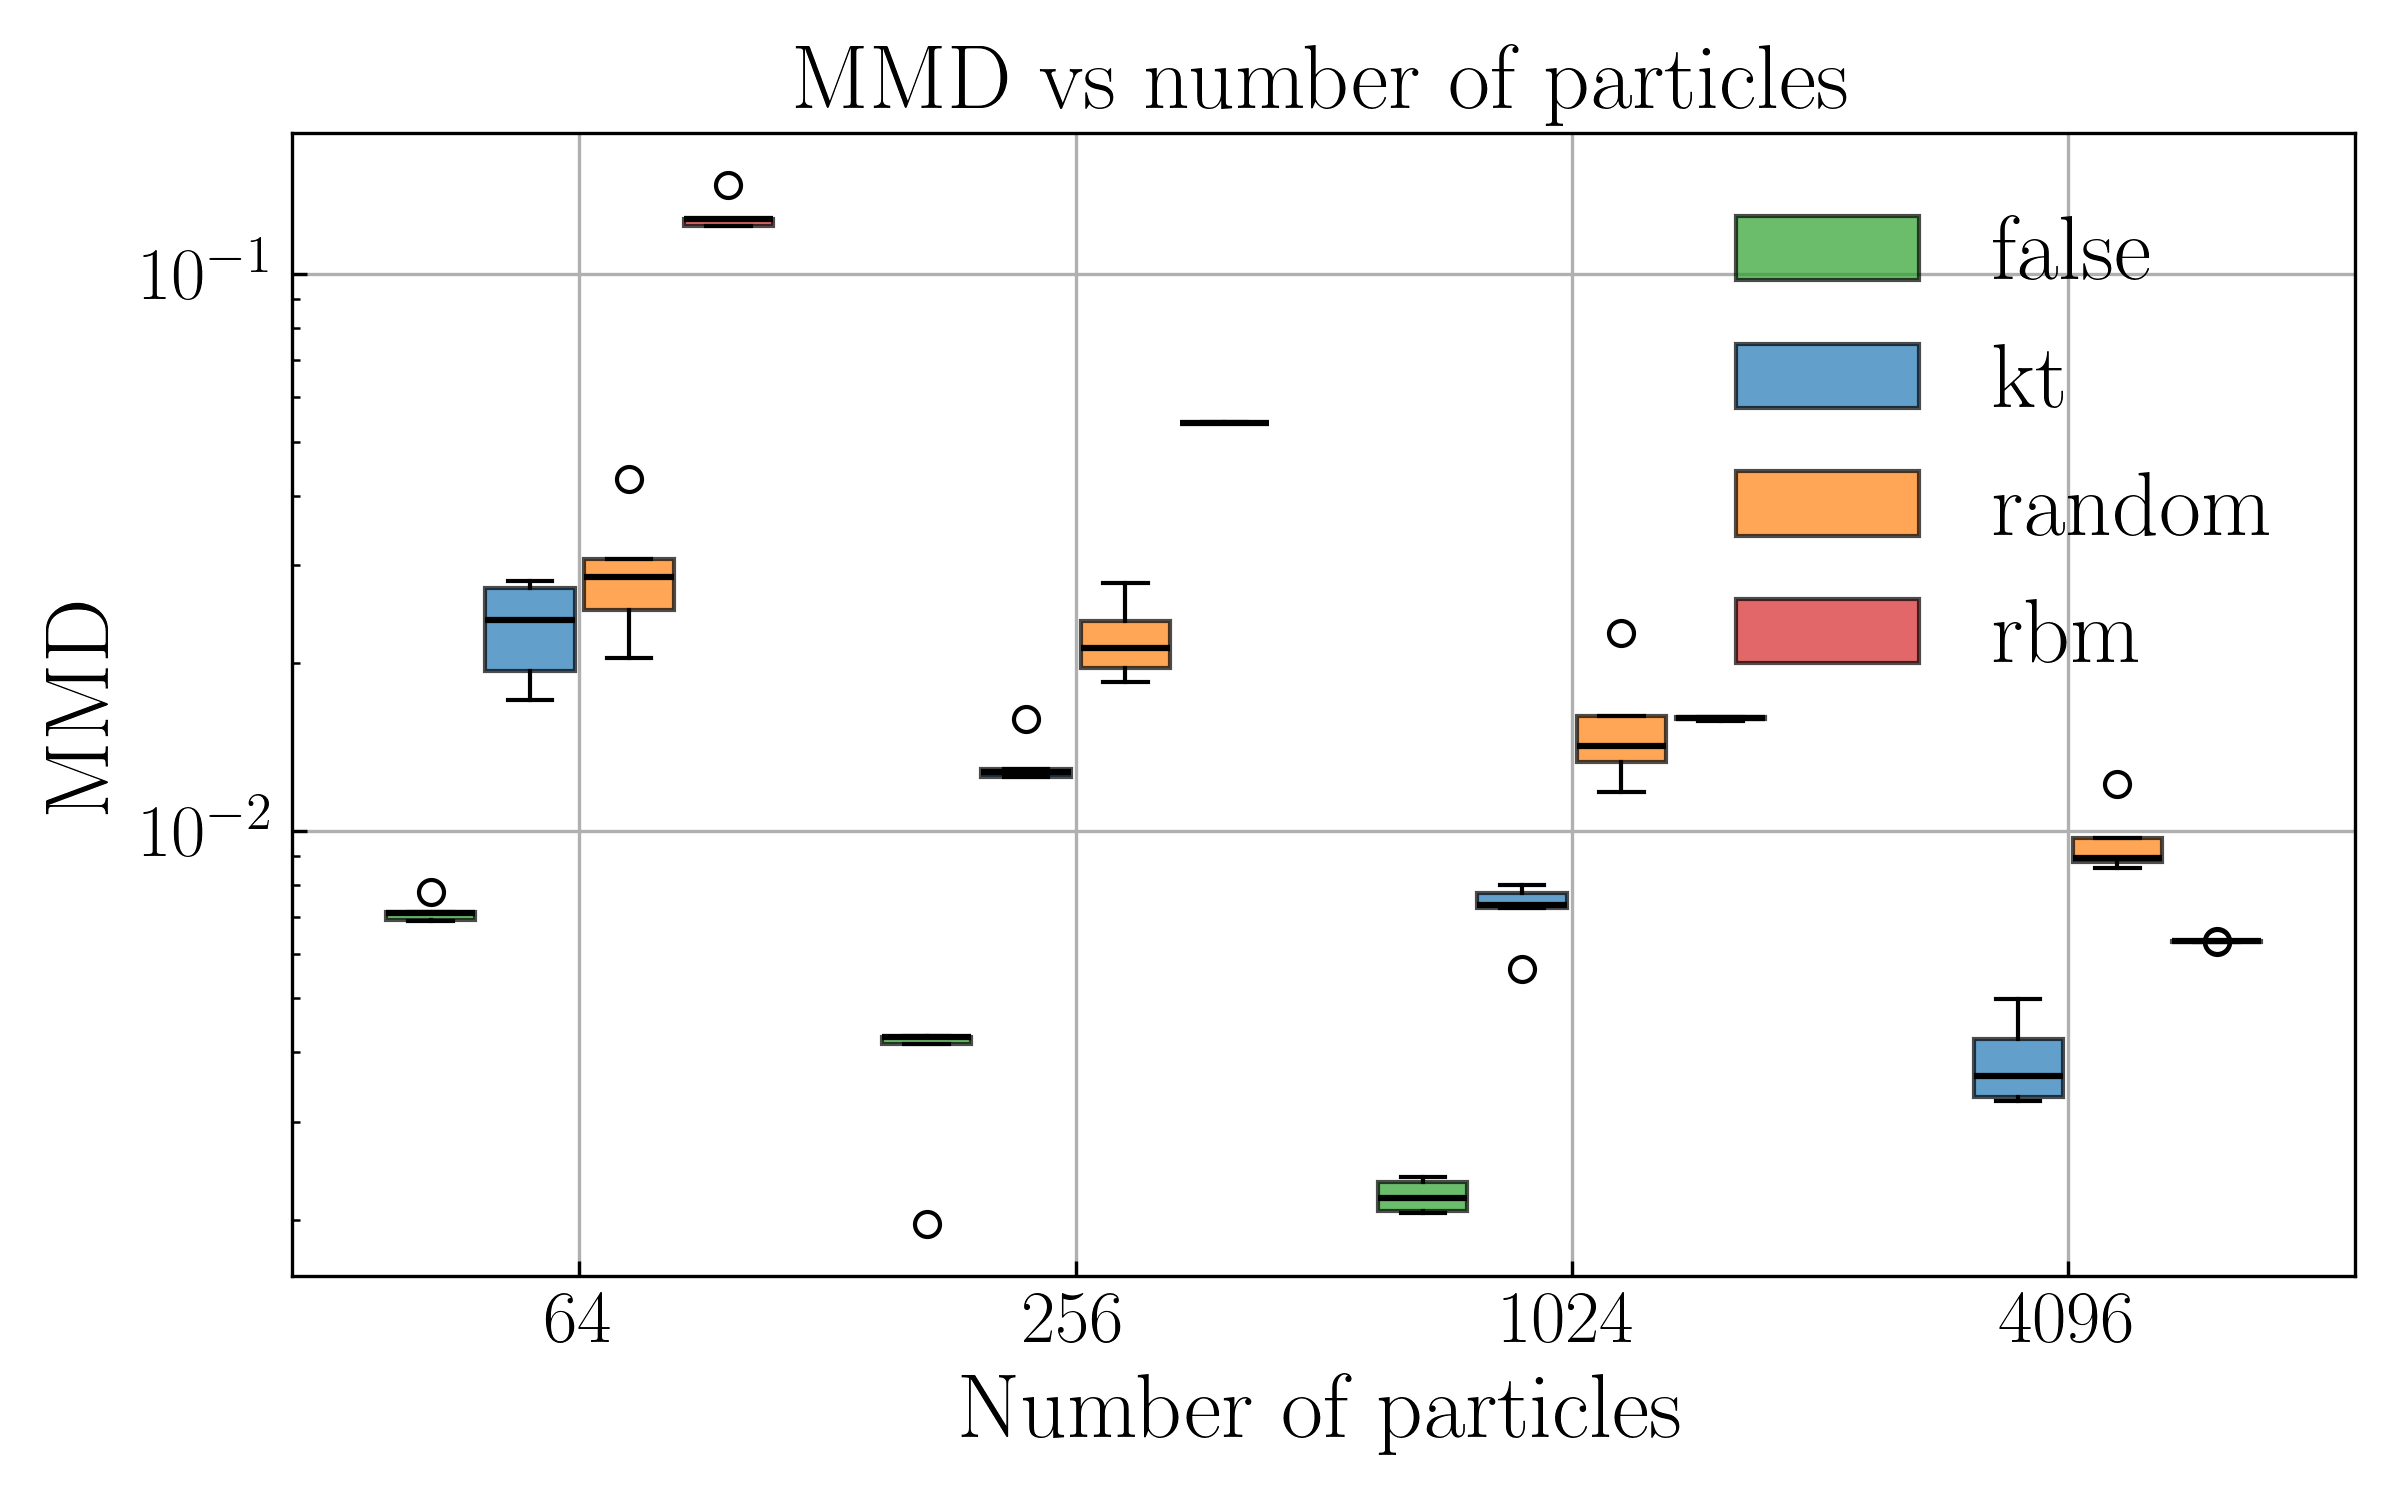
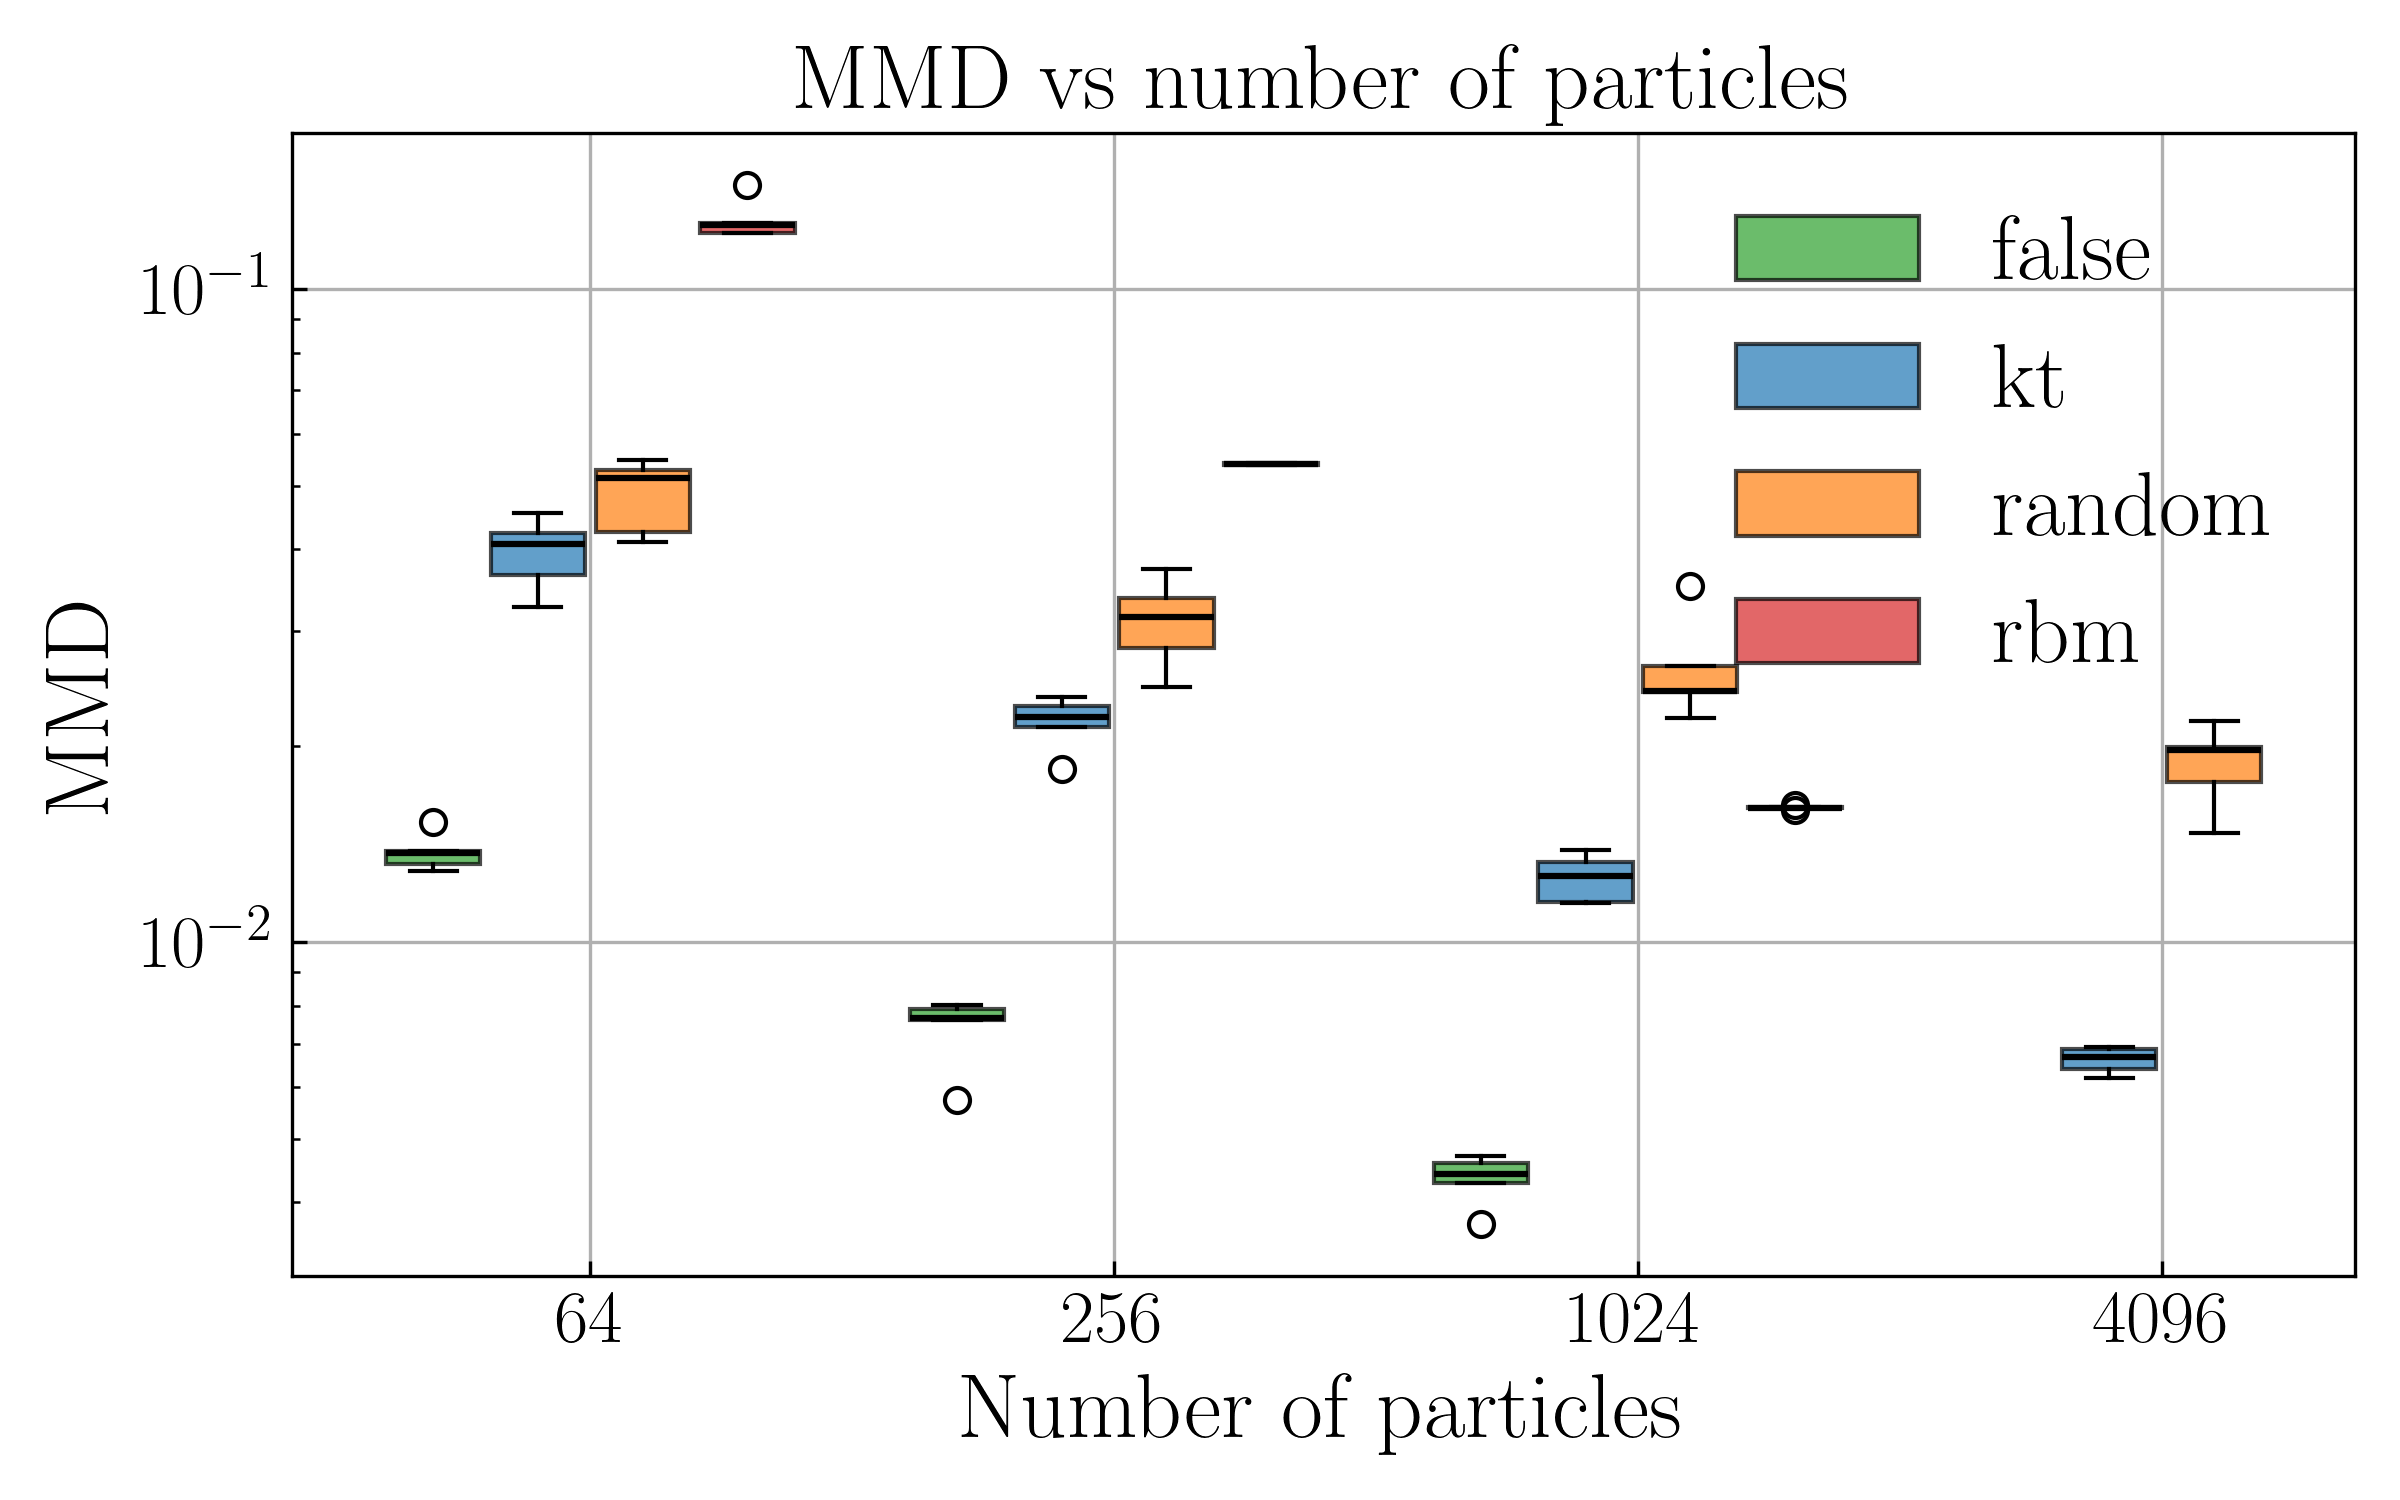
config

diff --git a/mfld.py b/mfld.py
@@ -12,8 +12,8 @@ from utils.kernel import compute_mmd2
 from jaxtyping import Array 
 # from utils.kt import kt_compresspp
 from tqdm import tqdm
-from goodpoints.jax.compress import kt_compresspp
 from goodpoints import compress
+from goodpoints.jax.compress import kt_compresspp
 from goodpoints.jax.sliceable_points import SliceablePoints
 
 
@@ -32,14 +32,19 @@ def initialize(key, d_in, d_hidden, d_out):
     return W1, b1, W2
 
 
-# def uncentered_matern_32_kernel(points_x, points_y, l):
-#     X, Y = points_x.get("X"), points_y.get("X")  # (N_x, d), (N_y, d)
-#     # diff = X[:, None, :] - Y[None, :, :]         # (N_x, N_y, d)
-#     diff = X - Y
-#     dists = jnp.linalg.norm(diff, axis=-1)       # (N_x, N_y)
-#     sqrt3_r = jnp.sqrt(3.0) * dists / l
-#     return (1.0 + sqrt3_r) * jnp.exp(-sqrt3_r)   # (N_x, N_y)
+def uncentered_matern_32_kernel(points_x, points_y, l):
+    X, Y = points_x.get("X"), points_y.get("X")  # (N_x, d), (N_y, d)
+    # diff = X[:, None, :] - Y[None, :, :]         # (N_x, N_y, d)
+    diff = X - Y
+    dists = jnp.linalg.norm(diff, axis=-1)       # (N_x, N_y)
+    sqrt3_r = jnp.sqrt(3.0) * dists / l
+    return (1.0 + sqrt3_r) * jnp.exp(-sqrt3_r)   # (N_x, N_y)
 
+@jax.jit
+def uncentered_gaussian_kernel(points_x, points_y, l):
+    x, y = points_x.get("p"), points_y.get("p")
+    k_xy = jnp.exp(-0.5 * jnp.sum((x - y) ** 2, axis=-1) / (l ** 2))
+    return k_xy
 
 class MFLDBase(ABC):
     def __init__(self, problem, thinning: str, save_freq: int, cfg: CFG, args):
@@ -64,16 +69,18 @@ class MFLDBase(ABC):
         if thinning == 'kt':
             # This is the jax version of kt_compresspp, which is very slow.
             #
-            # kernel_fn = partial(uncentered_matern_32_kernel, l=float(1.0))
-            # rng = np.random.default_rng(self.seed)
-            # def thin_fn(x, key):
-            #     points = SliceablePoints({"X": x})  
-            #     coresets = kt_compresspp(kernel_fn, points, w=jnp.ones(self.cfg.N) / self.cfg.N, 
-            #                  rng_gen=rng, inflate_size=int(self.cfg.N), g=0, delta=0.5)
+            # kernel_fn = partial(uncentered_gaussian_kernel, l=float(1.0))
+            
+            # def thin_fn(x, key):               
+            #     points = SliceablePoints({"p": x})  
+            #     rng = np.random.default_rng(int(key[0]))
+            #     coresets = kt_compresspp(kernel_fn, points, w=np.ones(x.shape[0]) / x.shape[0], 
+            #                  rng_gen=rng, inflate_size=x.shape[0], g=0)
             #     return x[coresets, :]
 
             # This is the cython version which is fast
             def thin_fn(x, rng_key):
+                rng_key, _ = jax.random.split(rng_key)
                 seed = jax.random.randint(rng_key, (), 0, 2**31 - 1).item()
                 x_cpu = np.array(np.asarray(x))
                 coresets = compress.compresspp_kt(x_cpu, kernel_type=self.kernel_type.encode("utf-8"), k_params=k_params, seed=seed, g=self.cfg.g)
@@ -331,7 +338,7 @@ class MFLD_mmd_flow(MFLDBase):
             v_batch = jax.vmap(vf_one_batch, in_axes=(0, 0))(x_batch, keys)  # (B, B, d)
             v = v_batch.reshape((N, d))
             x_next = x - self.cfg.step_size * v
-        return (x_next, key), x_next
+        return (x_next, key), thinned_x
     
     def simulate(self, x0: Optional[Array] = None) -> Array:
         key = random.PRNGKey(self.cfg.seed)
@@ -347,12 +354,11 @@ class MFLD_mmd_flow(MFLDBase):
         for t in tqdm(range(self.cfg.steps)):
             time_start = time.time()
             key_, subkey = random.split(key)
-            (x, key) , _ = self._step((x, subkey), t)
+            (x, key) , thinned_x = self._step((x, subkey), t)
             time_elapsed = time.time() - time_start
 
             ###########################################
             # Debug code compare MMD between x and thinned_x 
-            thinned_x = self.thin_fn(x, key_)
             mmd2 = compute_mmd2(x, thinned_x, bandwidth=self.cfg.bandwidth)
 
             # thinned_output = self._vm_grad_q2(x, thinned_x)

diff --git a/main.py b/main.py
@@ -198,7 +198,7 @@ def main(args):
               zeta=args.zeta, g=args.g, seed=args.seed, bandwidth=args.bandwidth, return_path=True)
         sim = MFLD_mmd_flow(problem=problem_mmd_flow, save_freq=1, thinning=args.thinning, cfg=cfg, args=args)
         rng_key, _ = jax.random.split(rng_key)
-        X0 = jax.random.normal(rng_key, (args.particle_num, problem_mmd_flow.particle_d))
+        X0 = 2.0 * jax.random.normal(rng_key, (args.particle_num, problem_mmd_flow.particle_d))
     xT, mmd_path, thin_original_mse_path, time_path = sim.simulate(x0=X0)
 
     if args.dataset == 'covertype':

diff --git a/utils/evaluate.py b/utils/evaluate.py
@@ -207,7 +207,7 @@ def eval_mmd_flow(args, sim, xT, data, mmd_path, thin_original_mse_path, time_pa
     jnp.save(f'{args.save_path}/thin_original_mse_path.npy', thin_original_mse_path)
     jnp.save(f'{args.save_path}/mmd_values_trajectory.npy', mmd_values)
     jnp.save(f'{args.save_path}/time_path.npy', time_path)
-    # save_animation_2d(xT, sim.problem.distribution, save_path=args.save_path)
+    save_animation_2d(xT, sim.problem.distribution, save_path=args.save_path)
     return 
 
 import numpy as np
